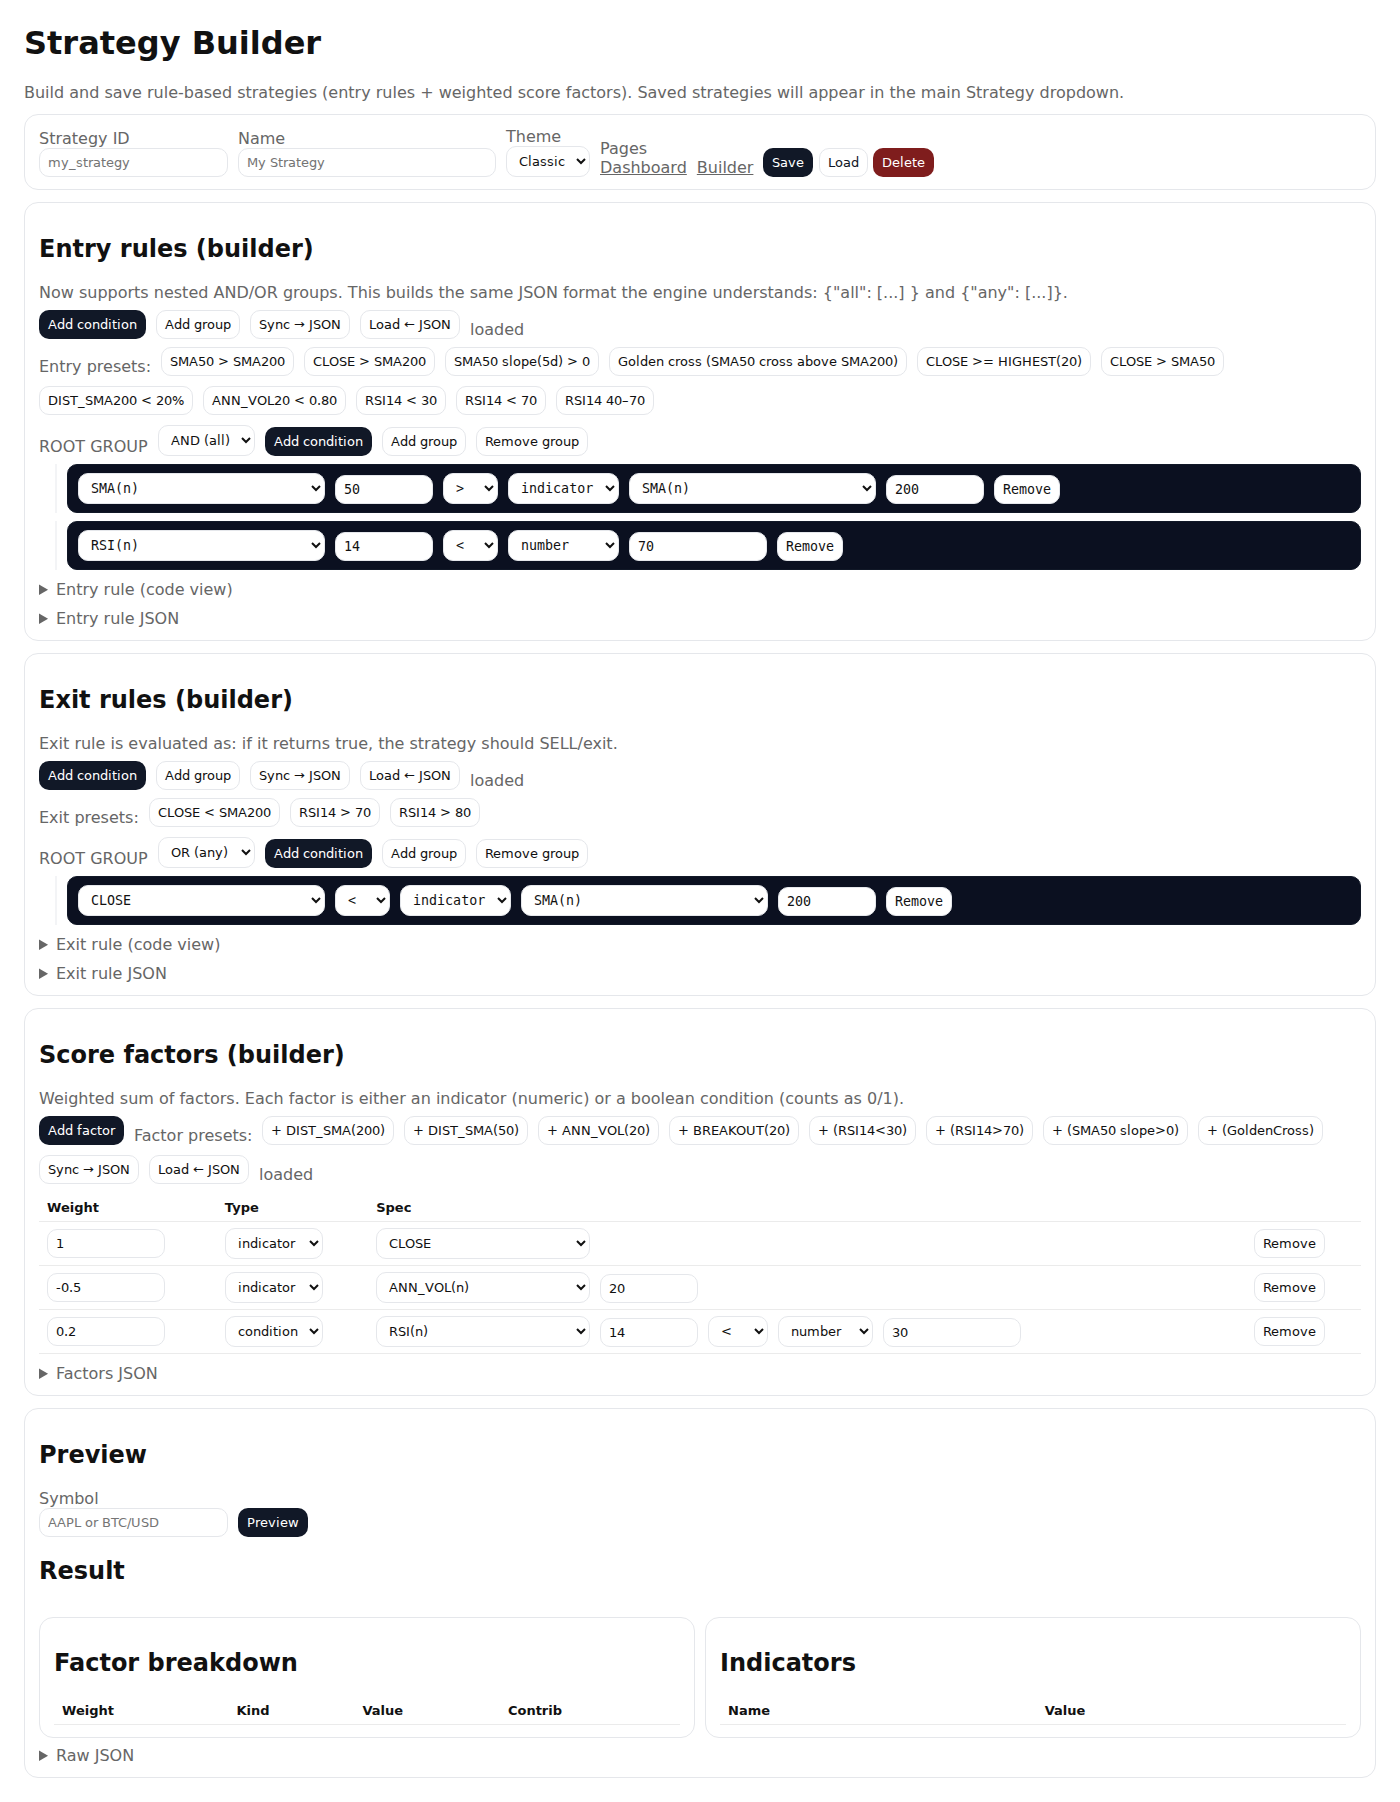
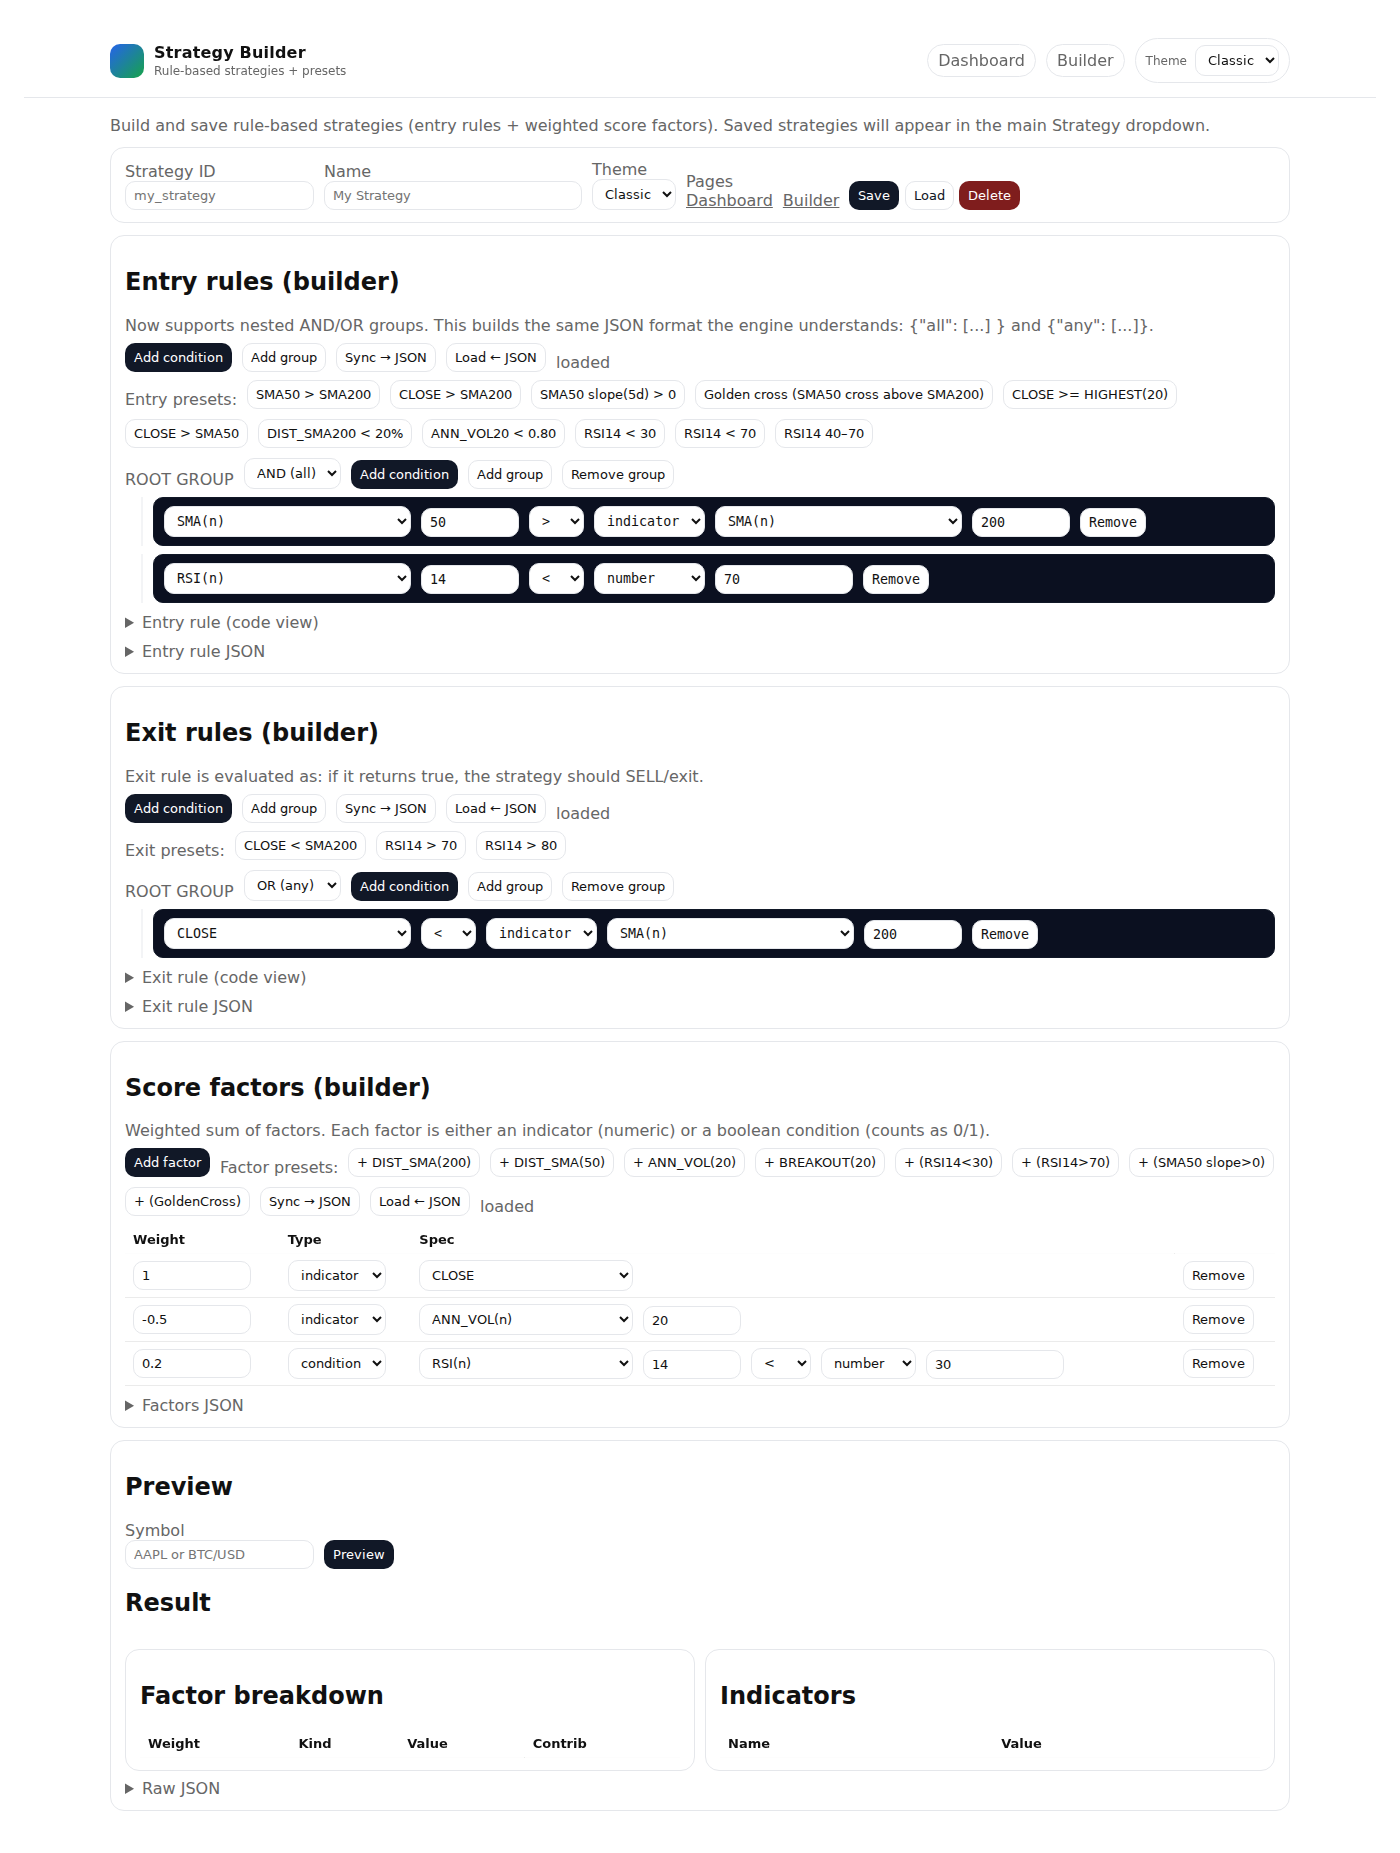
UI polish: top nav + improved theming

diff --git a/src/tradebot/dashboard/static/themes.css b/src/tradebot/dashboard/static/themes.css
@@ -117,7 +117,55 @@ body {
 
 a { color: var(--accent); }
 
+a:hover { opacity: .92; }
+
 .muted { color: var(--muted) !important; }
+
+/* App shell */
+
+.topbar {
+  position: sticky;
+  top: 0;
+  z-index: 40;
+  background: color-mix(in srgb, var(--bg) 85%, transparent);
+  backdrop-filter: blur(8px);
+  border-bottom: 1px solid var(--border);
+}
+
+.topbarInner {
+  max-width: 1180px;
+  margin: 0 auto;
+  padding: 14px 18px;
+  display: flex;
+  justify-content: space-between;
+  align-items: center;
+  gap: 14px;
+}
+
+.brand {
+  display:flex;
+  align-items:center;
+  gap:10px;
+}
+
+.brandMark {
+  width: 34px;
+  height: 34px;
+  border-radius: 10px;
+  background: linear-gradient(135deg, var(--accent), var(--accent-2));
+  box-shadow: var(--shadow-sm);
+}
+
+.brandTitle {
+  font-weight: 800;
+  letter-spacing: .2px;
+}
+
+.container {
+  max-width: 1180px;
+  margin: 0 auto;
+  padding: 18px;
+}
 
 .card {
   background: var(--panel);
@@ -125,6 +173,8 @@ a { color: var(--accent); }
   border-radius: var(--radius-md);
   box-shadow: var(--shadow-sm);
 }
+
+/* Controls */
 
 input, select, textarea, button {
   border: 1px solid var(--border);
@@ -138,10 +188,19 @@ input:focus, select:focus, textarea:focus, button:focus {
   box-shadow: var(--ring);
 }
 
+button {
+  transition: transform .06s ease, opacity .12s ease, box-shadow .12s ease;
+}
+
+button:active {
+  transform: translateY(1px);
+}
+
 button.primary {
   background: var(--btn-bg);
   color: var(--btn-text);
   border: 1px solid transparent;
+  box-shadow: var(--shadow-sm);
 }
 
 button.secondary {
@@ -154,6 +213,40 @@ button.danger {
   color: #fff;
   border: 1px solid transparent;
 }
+
+.pill {
+  display:inline-flex;
+  align-items:center;
+  gap:8px;
+  padding: 6px 10px;
+  border-radius: 999px;
+  border: 1px solid var(--border);
+  background: var(--panel);
+}
+
+/* Tables */
+
+table {
+  width: 100%;
+  border-collapse: collapse;
+}
+
+thead th {
+  position: sticky;
+  top: 60px;
+  background: color-mix(in srgb, var(--panel) 92%, transparent);
+  backdrop-filter: blur(8px);
+}
+
+th, td {
+  border-bottom: 1px solid color-mix(in srgb, var(--border) 85%, transparent);
+}
+
+tbody tr:hover {
+  background: color-mix(in srgb, var(--accent) 8%, transparent);
+}
+
+/* Code-ish */
 
 .codewrap {
   background: var(--code-bg);

diff --git a/src/tradebot/dashboard/builder.html b/src/tradebot/dashboard/builder.html
@@ -21,8 +21,32 @@
   </style>
 </head>
 <body>
-  <h1>Strategy Builder</h1>
-  <div class="muted">Build and save rule-based strategies (entry rules + weighted score factors). Saved strategies will appear in the main Strategy dropdown.</div>
+  <div class="topbar">
+    <div class="topbarInner">
+      <div class="brand">
+        <div class="brandMark" aria-hidden="true"></div>
+        <div>
+          <div class="brandTitle">Strategy Builder</div>
+          <div class="muted" style="font-size:12px; margin-top:2px;">Rule-based strategies + presets</div>
+        </div>
+      </div>
+      <div class="row" style="align-items:center; gap:10px;">
+        <a href="/" class="muted" style="text-decoration:none;"><span class="pill">Dashboard</span></a>
+        <a href="/builder" class="muted" style="text-decoration:none;"><span class="pill">Builder</span></a>
+        <div class="pill">
+          <span class="muted" style="font-size:12px;">Theme</span>
+          <select id="themeSel" style="padding:6px 8px;">
+            <option value="classic">Classic</option>
+            <option value="fun">Fun</option>
+            <option value="dark">Dark</option>
+          </select>
+        </div>
+      </div>
+    </div>
+  </div>
+
+  <div class="container">
+    <div class="muted">Build and save rule-based strategies (entry rules + weighted score factors). Saved strategies will appear in the main Strategy dropdown.</div>
 
   <div class="card">
     <div class="row">
@@ -894,5 +918,6 @@ document.getElementById('addPresetCross').addEventListener('click', (e)=>{e.prev
 document.getElementById('syncFactorsToJson').addEventListener('click', (e)=>{e.preventDefault(); syncFactorsToJson();});
 document.getElementById('syncFactorsFromJson').addEventListener('click', (e)=>{e.preventDefault(); syncFactorsFromJson();});
 </script>
+  </div>
 </body>
 </html>

diff --git a/src/tradebot/dashboard/index.html b/src/tradebot/dashboard/index.html
@@ -41,20 +41,30 @@
   </style>
 </head>
 <body>
-  <div class="row" style="justify-content: space-between; align-items:flex-end; gap:12px;">
-    <div>
-      <h1 style="margin:0;">SeaTrader</h1>
-      <div class="muted" id="subtitle">loading…</div>
-    </div>
-    <div>
-      <div class="muted" style="margin-bottom:6px;">Theme</div>
-      <select id="themeSel" style="padding:6px 8px;">
-        <option value="classic">Classic</option>
-        <option value="fun">Fun</option>
-        <option value="dark">Dark</option>
-      </select>
+  <div class="topbar">
+    <div class="topbarInner">
+      <div class="brand">
+        <div class="brandMark" aria-hidden="true"></div>
+        <div>
+          <div class="brandTitle">SeaTrader</div>
+          <div class="muted" id="subtitle" style="font-size:12px; margin-top:2px;">loading…</div>
+        </div>
+      </div>
+      <div class="row" style="align-items:center; gap:10px;">
+        <a href="/" class="muted" style="text-decoration:none;" title="Dashboard"><span class="pill">Dashboard</span></a>
+        <a href="/builder" class="muted" style="text-decoration:none;" title="Strategy Builder"><span class="pill">Builder</span></a>
+        <div class="pill">
+          <span class="muted" style="font-size:12px;">Theme</span>
+          <select id="themeSel" style="padding:6px 8px;">
+            <option value="classic">Classic</option>
+            <option value="fun">Fun</option>
+            <option value="dark">Dark</option>
+          </select>
+        </div>
+      </div>
     </div>
   </div>
+  <div class="container">
 
   <div class="grid" style="margin-top: 16px;">
     <div class="card col-6">
@@ -397,6 +407,7 @@
       </table>
     </div>
   </div>
+</div>
 
 <script>
 async function getJSON(url) {
